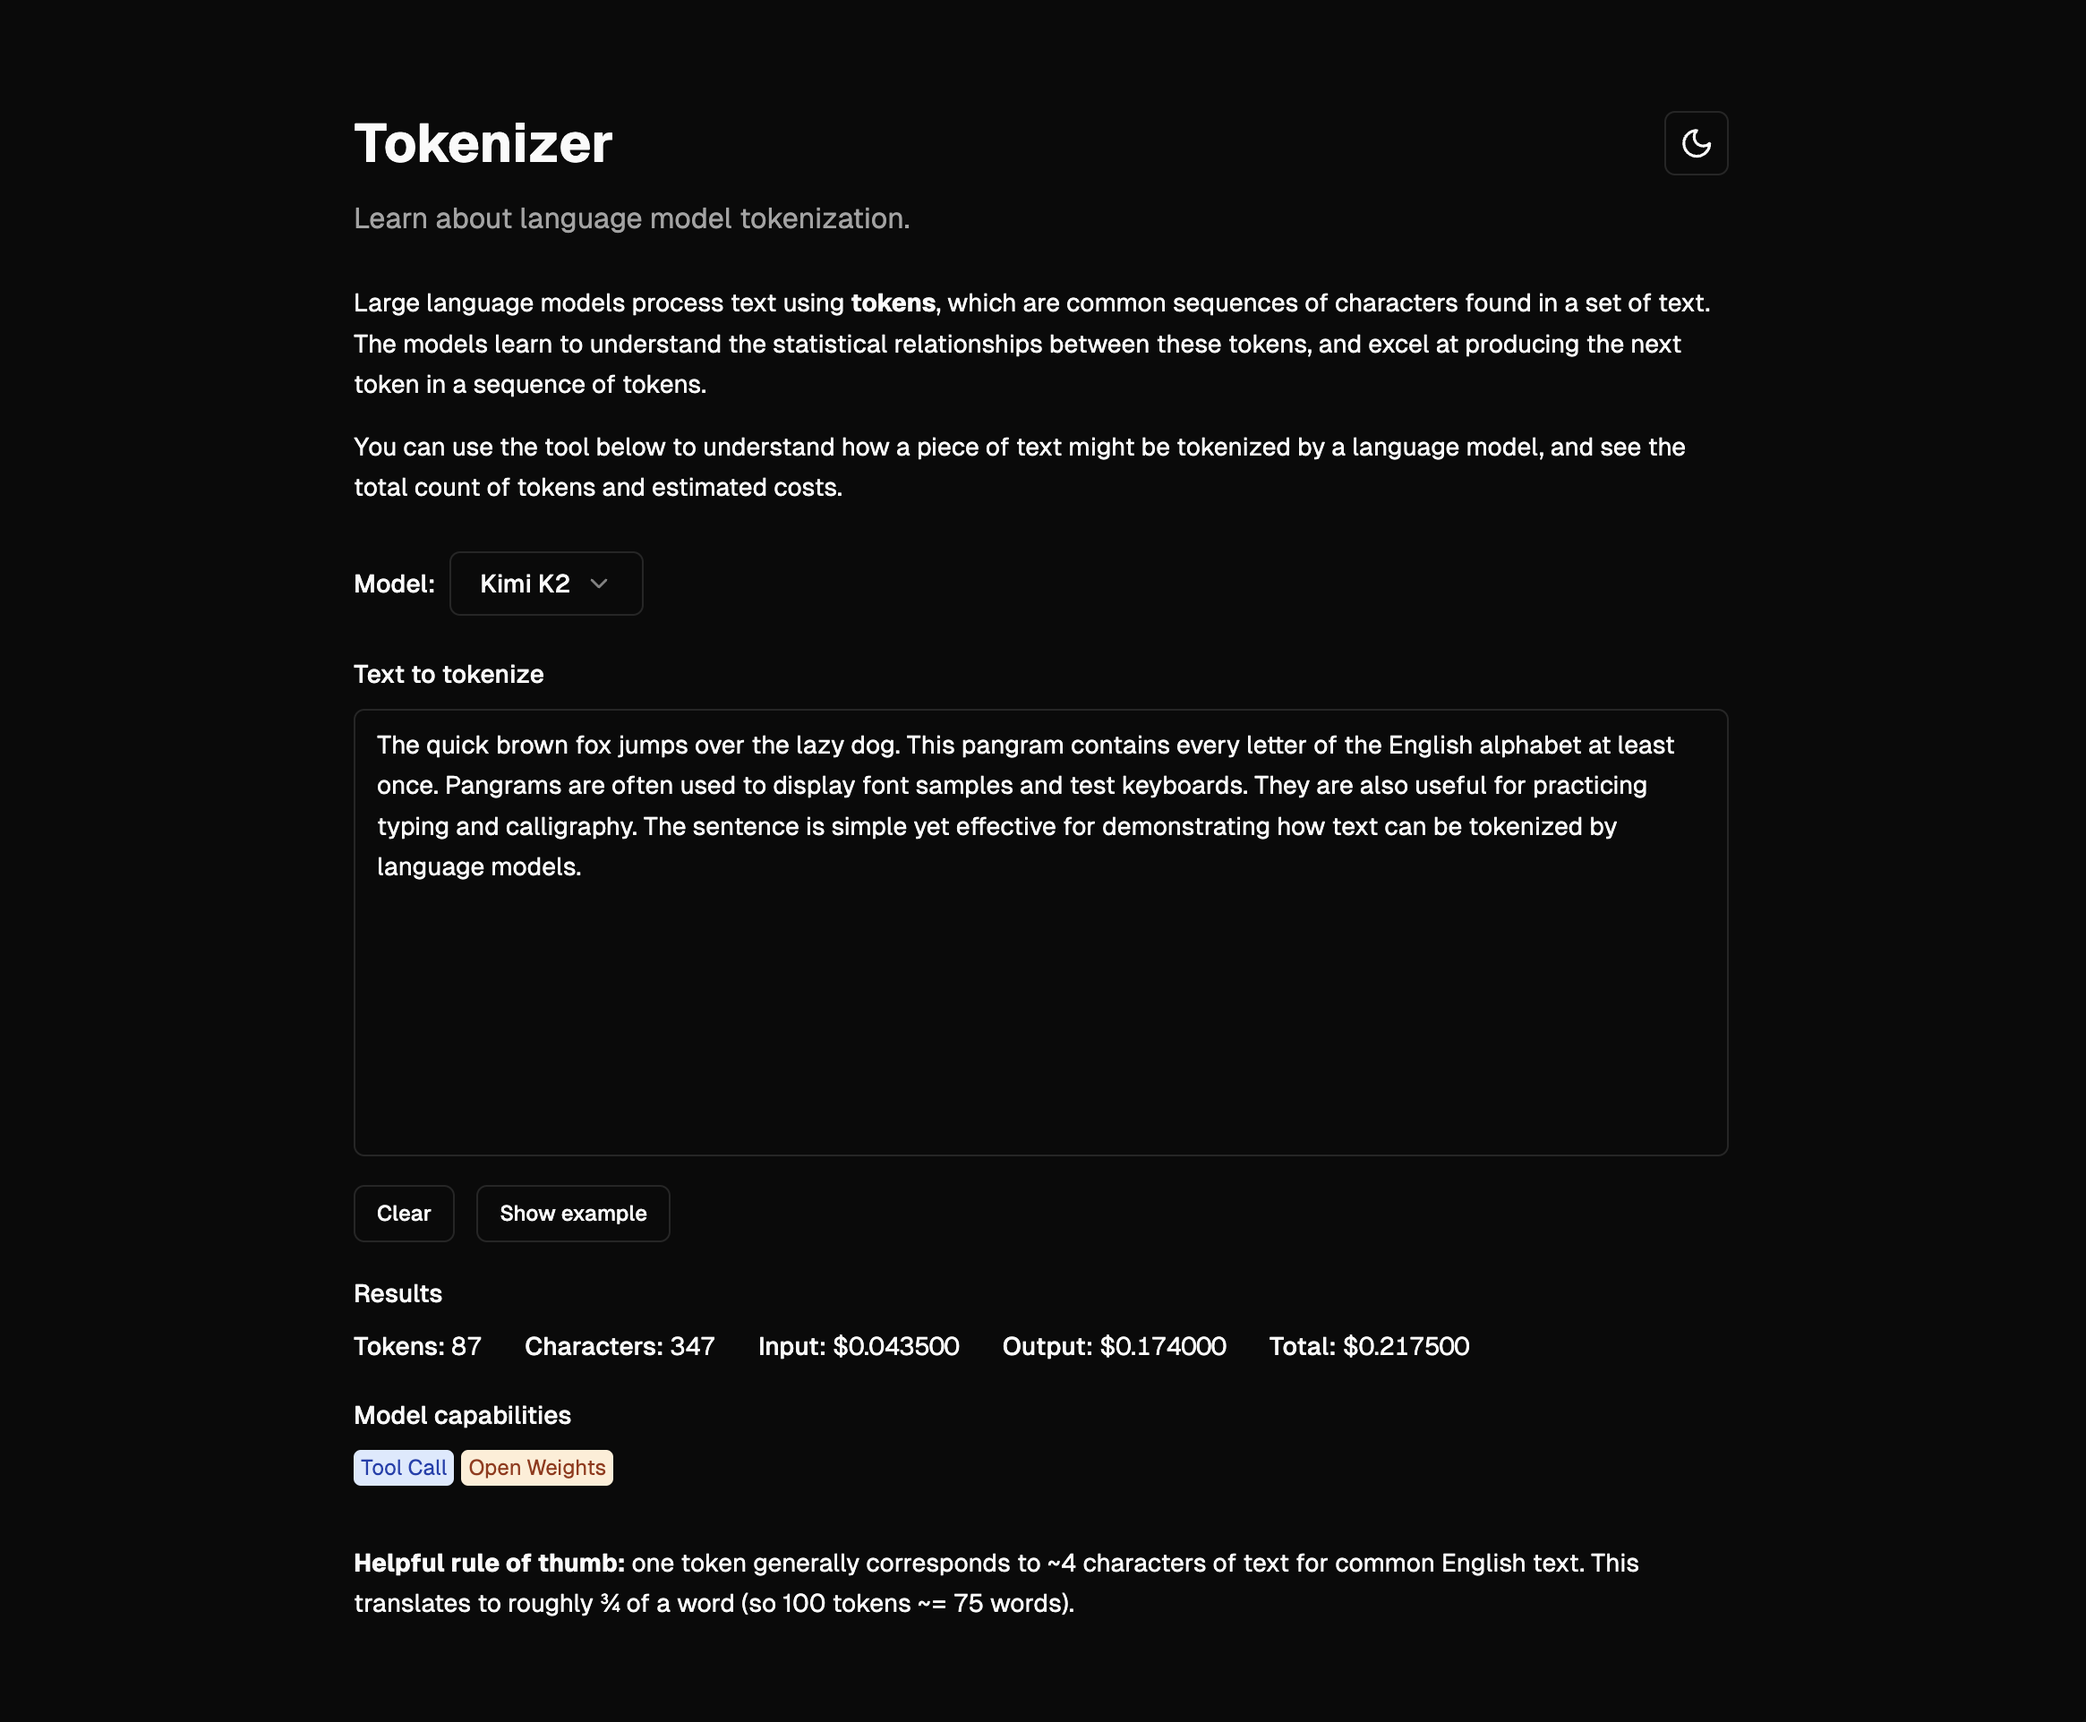
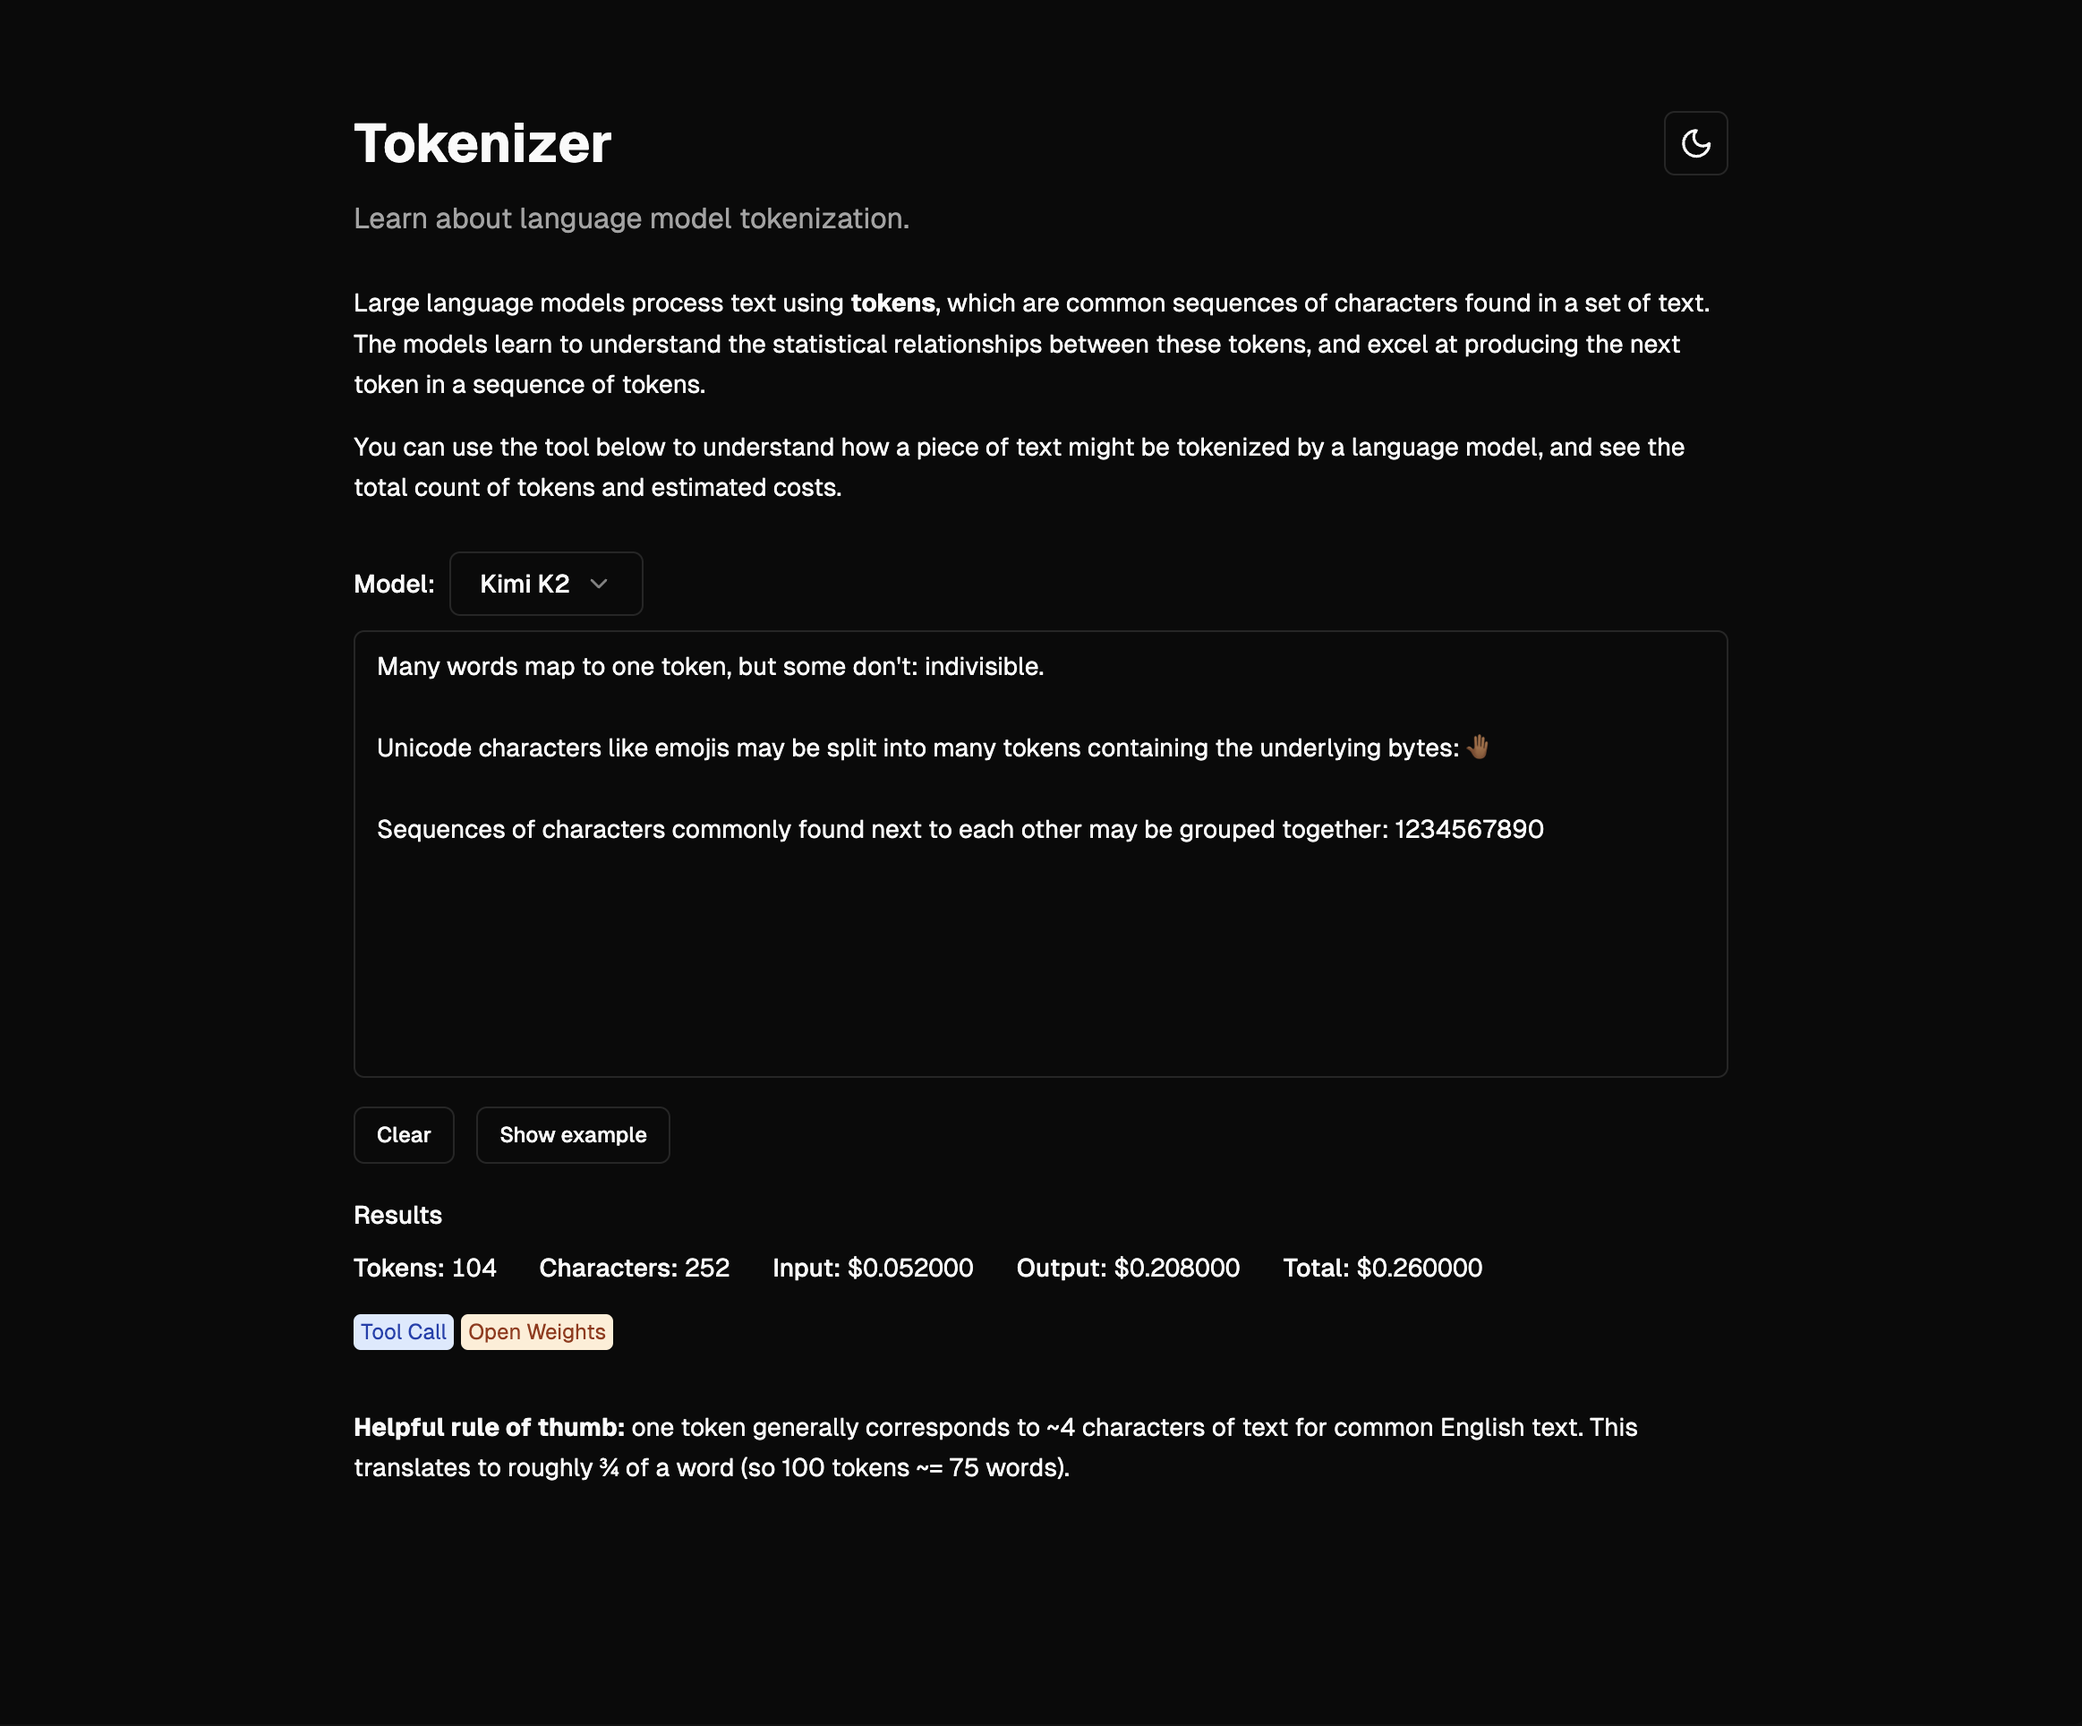
refactor: streamline model selection

diff --git a/app/page.tsx b/app/page.tsx
@@ -93,16 +93,11 @@ Sequences of characters commonly found next to each other may be grouped togethe
 					</p>
 				</div>
 
-				{/* Model Selection */}
-				<div className="mb-5">
-					<ModelSelector onModelChange={handleModelChange} />
-				</div>
-
 				{/* Tokenization Tool */}
 				<div className="space-y-4">
 					{/* Text Input */}
 					<div className="space-y-2">
-						<Label htmlFor="text-input">Text to tokenize</Label>
+						<ModelSelector onModelChange={handleModelChange} />
 						<Textarea
 							id="text-input"
 							value={text}
@@ -182,7 +177,6 @@ Sequences of characters commonly found next to each other may be grouped togethe
 					{/* Model Capabilities */}
 					{selectedModel && (
 						<div className="space-y-2">
-							<Label>Model capabilities</Label>
 							<div className="flex flex-wrap gap-1">
 								{selectedModel.tool_call && (
 									<span className="text-xs bg-blue-100 text-blue-800 px-1 py-0.5 rounded">
